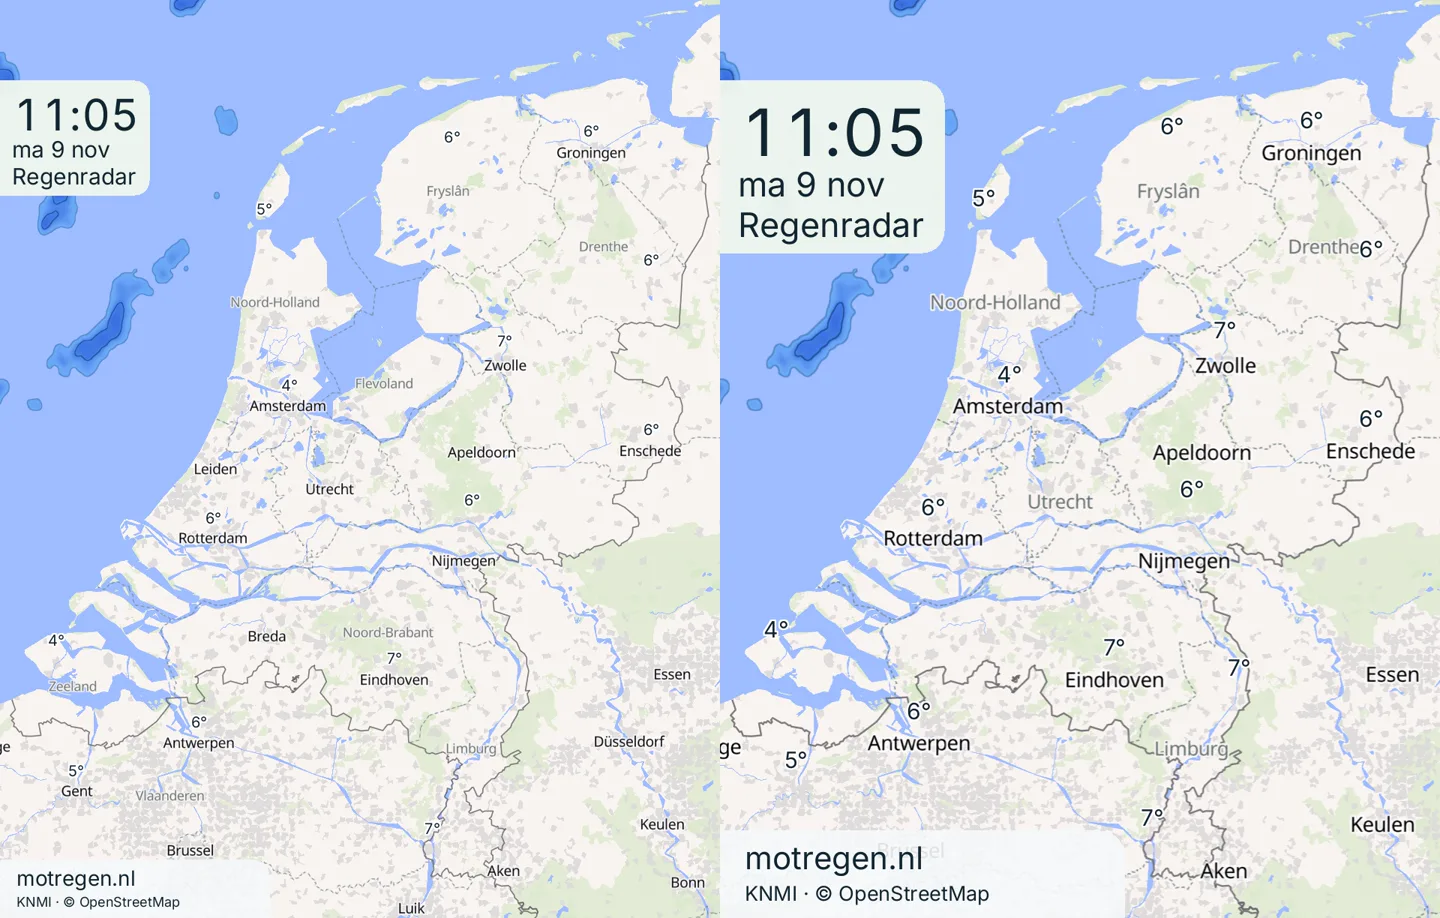
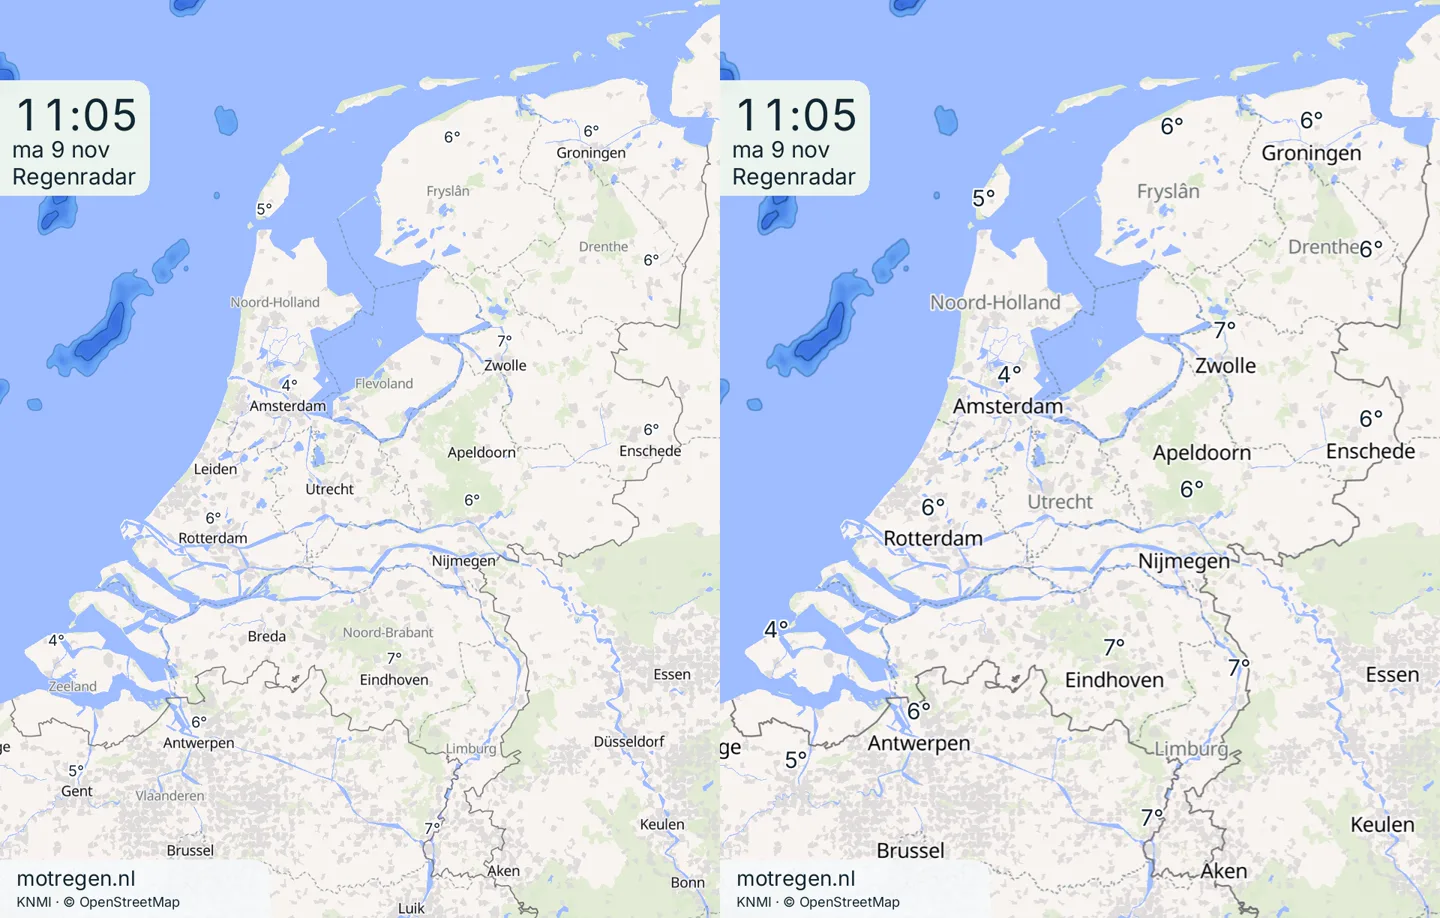
bot: klokpaneel en voetregel terug naar hun oude maat; de kaart met alles erop blijft 1,5× (PO, U103)
Rust overlay, klok en cijfermasker weer op de vaste maten van schaal 1,5; element_px/element_text alleen voor
kaartlabels (temperatuur, isolijn, H/L). Pariteitsvenster 270–1100 (onder het botklokpaneel, boven de
voetregel van de app-referentie). Changelogbeeld opnieuw.

Changed region(s): [[0.5, 0.061, 0.6562, 0.2745], [0.5, 0.8845, 0.7812, 1.0]]

diff --git a/bot/air-parity.ts b/bot/air-parity.ts
@@ -18,8 +18,9 @@ const manifest = validateManifest(JSON.parse(await readFile(manifestPath, 'utf8'
 const origin = process.env.MOTREGEN_PARITY_ORIGIN ?? 'http://127.0.0.1:4392'
 const now = Date.parse(manifest.now)
 // Kaartgebied zonder klokpaneel (linksboven) en voettekst (linksonder): die tekst tekent Rust zelf (MIP-29).
-// Kaart zonder overlays: onder het klokpaneel (tot rij 338) en boven de voetregel (vanaf rij 1107), sinds U103.
-const mapRows = { first: 345, last: 1100 }
+// Kaart zonder overlays: onder het klokpaneel van de bot (tot rij 261) en boven de voetregel van de app-referentie
+// (vanaf rij 1111, op FRAME 1,5× groot), sinds U103.
+const mapRows = { first: 270, last: 1100 }
 // De Rust-stills zijn JPEG; het gemiddelde mag de eigen JPEG-vloer van het appbeeld met hooguit 0,5 overschrijden.
 const limits = { mapMeanAboveJpeg: 0.5, mapP99: 8 }
 const samples = [{ name: 'dag', minutes: 240 }, { name: 'nacht', minutes: 720 }]

diff --git a/bot/config.ts b/bot/config.ts
@@ -8,9 +8,10 @@ import type { TelegramApi } from './api.js'
  */
 export const FRAME_PIXELS = { width: 960, height: 1224 } as const
 /**
- * Labels, lijnen, klok en voetregel 1,5× groter dan bij de oude schaal 1,5, op hetzelfde bestand en dezelfde
- * kaartuitsnede (U103, C8a): Telegram toont de films vaak klein. Vaste pixelmaten zijn afgesteld bij
- * BASE_FRAME_SCALE en schalen met ELEMENT_SCALE mee.
+ * De kaart met alles erop (plaatsnamen, labels, lijnen, wind, merktekens) 1,5× groter dan bij de oude schaal 1,5,
+ * op hetzelfde bestand en dezelfde kaartuitsnede (U103, C8a): Telegram toont de films vaak klein. Vaste pixelmaten
+ * zijn afgesteld bij BASE_FRAME_SCALE en schalen met ELEMENT_SCALE mee; klokpaneel en voetregel van de
+ * Rust-renderer blijven op hun oude maat (PO 2026-11-09).
  */
 export const BASE_FRAME_SCALE = 1.5
 export const ELEMENT_SCALE = 1.5

diff --git a/bot/parity.ts b/bot/parity.ts
@@ -33,8 +33,9 @@ const origin = process.env.MOTREGEN_ORIGIN ?? 'https://motregen.nl'
 const referenceOrigin = process.env.MOTREGEN_PARITY_ORIGIN ?? origin
 const now = Date.parse(manifest.now)
 const limits = { mean: 0.5, maximum: 20, mapMean: 0.35, mapMaximum: 8 }
-// Kaart zonder overlays: onder het klokpaneel (tot rij 338) en boven de voetregel (vanaf rij 1107), sinds U103.
-const mapRows = { first: 345, last: 1100 }
+// Kaart zonder overlays: onder het klokpaneel van de bot (tot rij 261) en boven de voetregel van de app-referentie
+// (vanaf rij 1111, op FRAME 1,5× groot), sinds U103.
+const mapRows = { first: 270, last: 1100 }
 const windLimits = { components: 0.1, meanLength: 0.1, meanWidth: 0.1, ink: 0.2 }
 const windPhases = [1000, 3000, 5000, 7000, 9000]
 function averageWind(samples: WindMetrics[]): WindMetrics {

diff --git a/crates/render-core/src/overlay.rs b/crates/render-core/src/overlay.rs
@@ -1,7 +1,6 @@
 use crate::{
     clock::{ClockTransition, draw_clock},
     constants::constants,
-    mode_constants::{element_px, element_text},
     text::Text,
     time::{clock_date, clock_text, loop_clock_epoch},
 };
@@ -11,21 +10,15 @@ pub struct ClockOptions {
     pub still: bool,
 }
 
-// MIP-32: 64 pixels op de 576-brede Telegram-screenshot, omgerekend naar 960 uitvoerpixels. Vrije ruimte boven de
-// klok, dus de positie schaalt niet mee met de elementen (U103).
+// MIP-32: 64 pixels op de 576-brede Telegram-screenshot, omgerekend naar 960 uitvoerpixels.
 pub const CLOCK_PANEL_TOP: i32 = 107;
-
-/// A fixed size tuned at scale 1.5 in whole output pixels at the current element scale.
-fn px(pixels: f64) -> i32 {
-    element_px(pixels).round() as i32
-}
 
 pub fn clock_panel_bounds(text: &mut Text, title: &str) -> [f64; 4] {
     let width = title
         .lines()
-        .map(|line| (f64::from(text.width(line, element_text(30))) + element_px(32.0)).ceil())
-        .fold(element_px(200.0), f64::max);
-    let height = px(154.0 + 36.0 * title.lines().count().saturating_sub(1) as f64);
+        .map(|line| f64::from((text.width(line, 30) + 32.0).ceil()))
+        .fold(200.0, f64::max);
+    let height = 154 + 36 * title.lines().count().saturating_sub(1) as i32;
     [
         0.0,
         f64::from(CLOCK_PANEL_TOP),
@@ -84,11 +77,11 @@ pub fn draw_overlay_title(
     let bounds = clock_panel_bounds(text, title);
     rounded_panel(
         rgb,
-        -px(20.0),
+        -20,
         CLOCK_PANEL_TOP,
-        bounds[2] as i32 + px(20.0),
+        bounds[2] as i32 + 20,
         bounds[3] as i32 - CLOCK_PANEL_TOP,
-        px(20.0),
+        20,
         background,
         0.96,
     );
@@ -99,7 +92,7 @@ pub fn draw_overlay_title(
     };
     let (clock, _) = clock_text(clock_epoch);
     let date = clock_date(clock_epoch);
-    let content_left = element_px(16.0) as f32;
+    let content_left = 16.0;
     if let Some(transition) = options.transition {
         draw_clock(
             text,
@@ -114,8 +107,8 @@ pub fn draw_overlay_title(
         text.draw(
             rgb,
             &clock,
-            (content_left, CLOCK_PANEL_TOP + px(67.0)),
-            element_text(58),
+            (content_left, CLOCK_PANEL_TOP + 67),
+            58,
             clock_color,
             None,
         );
@@ -123,8 +116,8 @@ pub fn draw_overlay_title(
     text.draw(
         rgb,
         &date,
-        (content_left, CLOCK_PANEL_TOP + px(103.0)),
-        element_text(30),
+        (content_left, CLOCK_PANEL_TOP + 103),
+        30,
         clock_color,
         None,
     );
@@ -132,11 +125,8 @@ pub fn draw_overlay_title(
         text.draw(
             rgb,
             title,
-            (
-                content_left,
-                CLOCK_PANEL_TOP + px(139.0 + line as f64 * 36.0),
-            ),
-            element_text(30),
+            (content_left, CLOCK_PANEL_TOP + 139 + line as i32 * 36),
+            30,
             clock_color,
             None,
         );
@@ -145,28 +135,27 @@ pub fn draw_overlay_title(
     let footer_background = if night { [7, 19, 25] } else { [245, 249, 250] };
     rounded_panel(
         rgb,
-        -px(20.0),
-        size.height as i32 - px(78.0),
-        px(380.0),
-        px(100.0),
-        px(22.0),
+        -20,
+        size.height as i32 - 78,
+        380,
+        100,
+        22,
         footer_background,
         0.9,
     );
-    let footer_left = element_px(22.0) as f32;
     text.draw(
         rgb,
         "motregen.nl",
-        (footer_left, size.height as i32 - px(43.0)),
-        element_text(28),
+        (22.0, size.height as i32 - 43),
+        28,
         footer_color,
         None,
     );
     text.draw(
         rgb,
         "KNMI · © OpenStreetMap",
-        (footer_left, size.height as i32 - px(15.0)),
-        element_text(18),
+        (22.0, size.height as i32 - 15),
+        18,
         footer_color,
         None,
     );

diff --git a/crates/render-core/src/clock.rs b/crates/render-core/src/clock.rs
@@ -1,9 +1,4 @@
-use crate::{
-    constants::constants,
-    mode_constants::{element_px, element_text},
-    text::Text,
-    time::clock_text,
-};
+use crate::{constants::constants, text::Text, time::clock_text};
 use serde::Serialize;
 use std::str::FromStr;
 
@@ -71,13 +66,13 @@ pub fn shown_state(epoch: i64, still: bool) -> ClockState {
 
 fn digit_width(text: &mut Text) -> usize {
     ('0'..='9')
-        .map(|digit| text.width(&digit.to_string(), element_text(58)).ceil() as usize)
+        .map(|digit| text.width(&digit.to_string(), 58).ceil() as usize)
         .max()
         .unwrap()
 }
 
 pub fn clock_width(text: &mut Text) -> f32 {
-    digit_width(text) as f32 * 4.0 + text.width(":", element_text(58))
+    digit_width(text) as f32 * 4.0 + text.width(":", 58)
 }
 
 pub fn draw_clock(
@@ -92,21 +87,13 @@ pub fn draw_clock(
     let (left, top) = position;
     let state = shown_state(epoch, still);
     let width = digit_width(text);
-    let height = element_px(56.0).round() as usize;
+    let height = 56;
     let progress = transition.animation_progress(state.progress);
     let mut position = left;
     for (from, to) in state.from.chars().zip(state.to.chars()) {
         if from == ':' {
-            let size = element_text(58);
-            text.draw(
-                rgb,
-                ":",
-                (position, top + element_px(67.0).round() as i32),
-                size,
-                color,
-                None,
-            );
-            position += text.width(":", size);
+            text.draw(rgb, ":", (position, top + 67), 58, color, None);
+            position += text.width(":", 58);
             continue;
         }
         let old = text.digit_mask(from, width, height);
@@ -123,7 +110,7 @@ pub fn draw_clock(
                 width,
                 height,
                 left: position.round() as i32,
-                top: top + element_px(15.0).round() as i32,
+                top: top + 15,
                 color,
                 progress,
                 transition,

diff --git a/crates/render-core/tests/clock.rs b/crates/render-core/tests/clock.rs
@@ -1,7 +1,6 @@
 use render_core::{
     clock::{ClockTransition, clock_state, clock_width, draw_clock},
     constants::constants,
-    mode_constants::{element_px, element_text},
     text::Text,
     time::epoch,
 };
@@ -111,11 +110,8 @@ fn digit_animation_keeps_unchanged_columns_and_clips_vertically() {
     let start = epoch("2026-10-11T04:55:00Z").unwrap();
     let original = render(start, ClockTransition::Schuif, false);
     let mut text = Text::new().unwrap();
-    let digit_width =
-        ((clock_width(&mut text) - text.width(":", element_text(58))) / 4.0).round() as usize;
-    let colon_width = text.width(":", element_text(58));
-    let digit_top = element_px(15.0).round() as usize;
-    let digit_rows = digit_top..digit_top + element_px(56.0).round() as usize;
+    let digit_width = ((clock_width(&mut text) - text.width(":", 58)) / 4.0).round() as usize;
+    let colon_width = text.width(":", 58);
     let changed_ranges = [
         (100 + digit_width, 100 + digit_width * 2),
         (
@@ -139,7 +135,7 @@ fn digit_animation_keeps_unchanged_columns_and_clips_vertically() {
             {
                 let x = index % constants().size.width;
                 let y = index / constants().size.width;
-                if !digit_rows.contains(&y)
+                if !(15..71).contains(&y)
                     || !changed_ranges
                         .iter()
                         .any(|&(left, right)| (left..right).contains(&x))

diff --git a/crates/render-core/src/text.rs b/crates/render-core/src/text.rs
@@ -1,7 +1,4 @@
-use crate::{
-    constants::constants,
-    mode_constants::{element_px, element_text},
-};
+use crate::constants::constants;
 use fontdue::{Font, Metrics};
 use std::{collections::HashMap, sync::Arc};
 
@@ -30,11 +27,10 @@ impl Text {
     }
 
     pub(crate) fn digit_mask(&mut self, character: char, width: usize, height: usize) -> Vec<u8> {
-        let glyph = self.glyph(character, element_text(58));
+        let glyph = self.glyph(character, 58);
         let left = ((width as f32 - glyph.metrics.advance_width) / 2.0).round() as i32
             + glyph.metrics.xmin;
-        let top =
-            element_px(52.0).round() as i32 - glyph.metrics.ymin - glyph.metrics.height as i32;
+        let top = 52 - glyph.metrics.ymin - glyph.metrics.height as i32;
         let mut mask = vec![0; width * height];
         for row in 0..glyph.metrics.height {
             for column in 0..glyph.metrics.width {

diff --git a/crates/render-core/tests/label_overlay.rs b/crates/render-core/tests/label_overlay.rs
@@ -1,6 +1,6 @@
 use render_core::{
     constants::constants,
-    mode_constants::{element_px, element_text},
+    mode_constants::element_text,
     overlay::clock_panel_bounds,
     rotated_text::{RotatedText, TextStyle},
     text::Text,
@@ -13,7 +13,7 @@ fn rotated_labels_and_halos_do_not_intersect_the_clock_panel() {
     let bounds = clock_panel_bounds(&mut text, "Gevoels-\ntemperatuur");
     assert_eq!(
         clock_panel_bounds(&mut text, "Regenradar"),
-        [0.0, 107.0, element_px(200.0), 107.0 + element_px(154.0)]
+        [0.0, 107.0, 200.0, 261.0]
     );
     let original = vec![25; size.width * size.height * 3];
     let mut labels = RotatedText::new().unwrap();

diff --git a/crates/render-core/tests/loop_clock.rs b/crates/render-core/tests/loop_clock.rs
@@ -128,8 +128,7 @@ fn clock_leaves_the_badge_band_clear_and_rounds_both_right_corners() {
                     assert_ne!(pixel(0, bottom), [25; 3]);
                     assert_eq!(pixel(right, top), [25; 3]);
                     assert_eq!(pixel(right, bottom), [25; 3]);
-                    let radius = render_core::mode_constants::element_px(20.0).round() as usize;
-                    assert_ne!(pixel(right, top + radius), [25; 3]);
+                    assert_ne!(pixel(right, top + 20), [25; 3]);
                 }
             }
         }

diff --git a/crates/render-core/src/mode_constants.rs b/crates/render-core/src/mode_constants.rs
@@ -5,7 +5,8 @@ use std::sync::OnceLock;
 pub struct ModeConstants {
     pub loops: LoopPlans,
     pub scale: f64,
-    /// Factor on the fixed pixel sizes of clock, footer and labels, tuned at scale 1.5 (U103).
+    /// Factor on the fixed pixel sizes of map labels and marks, tuned at scale 1.5 (U103). The clock panel and footer
+    /// stay at their scale-1.5 size (PO 2026-11-09).
     pub element_scale: f64,
     pub wind: Wind,
     pub isoline: Isoline,

diff --git a/docs/render.md b/docs/render.md
@@ -48,12 +48,13 @@ De kaartplaten bevatten de plaatsnamen. Temperatuurwaarden, klok en voettekst zi
 Het native botkader past Nederland (inclusief Zeeland, Limburg en de Wadden), zonder Vlaanderen als
 fitdoel. De bovenstrook van 48 pixels is verwijderd met behoud van zoom en bodemlijn. Het klokpaneel
 sluit linksboven aan op de beeldrand; alleen rechtsonder is rond. Tijd, Amsterdamse datum (zoals `zo 11 okt`)
-en de eigen modustitel staan op drie regels, 24 pixels van links. Datum en titel zijn 45 pixels en hebben
-hetzelfde contrast als de klok. De regenhoek is 300×231 pixels; alleen een langere modustitel verbreedt
-het paneel zodat tekst erbinnen blijft. Sinds U103 (PO C8a) zijn labels, lijnen, klok en voetregel 1,5× zo groot
-als bij de oude schaal 1,5: `FRAME` is 426,67×544 CSS-pixels bij schaal 2,25 op hetzelfde bestand van 960×1224 en
-dezelfde uitsnede. Vaste pixelmaten in Rust zijn afgesteld bij schaal 1,5 en lopen via `element_px`/`element_text`
-(`ELEMENT_SCALE` in `bot/config.ts`); vlakresolutie, isolijntolerantie en kaartmarge blijven gelijk in uitvoerpixels. Isolijnlabels en drukletters worden alleen buiten het paneel
+en de eigen modustitel staan op drie regels, 16 pixels van links. Datum en titel zijn 30 pixels en hebben
+hetzelfde contrast als de klok. De regenhoek is 200×154 pixels; alleen een langere modustitel verbreedt
+het paneel zodat tekst erbinnen blijft. Sinds U103 (PO C8a) is de kaart met alles erop 1,5× zo groot als bij de
+oude schaal 1,5 (plaatsnamen, temperatuur- en isolijnlabels, H/L, lijnen, wind); klokpaneel en voetregel niet.
+`FRAME` is 426,67×544 CSS-pixels bij schaal 2,25 op hetzelfde bestand van 960×1224 en dezelfde uitsnede. Vaste
+pixelmaten van kaartlabels lopen in Rust via `element_px`/`element_text` (`ELEMENT_SCALE` in `bot/config.ts`);
+vlakresolutie, isolijntolerantie en kaartmarge blijven gelijk in uitvoerpixels. Isolijnlabels en drukletters worden alleen buiten het paneel
 getekend; de volledige gedraaide tekst inclusief halo moet vrij blijven. Na een wijziging van `NATIVE_VIEW` moeten beide basiskaarten
 opnieuw worden vastgelegd; een oude plaat bijsnijden geeft geen passende projectie of labelplaatsing.
 Het watermasker dempt de windstaarten op zee; de regencompositie gebruikt het niet. Deze export start geen browser.

diff --git a/changes/pending/telegram-groter.md b/changes/pending/telegram-groter.md
@@ -6,4 +6,4 @@ media:
   - file: changes/media/telegram-groter-voor-na.webp
     caption: voor en na
 ---
-Klok, plaatsnamen, temperaturen en lijnen in de botkaarten zijn anderhalf keer zo groot, ook als Telegram ze klein toont.
+Plaatsnamen, temperaturen, lijnen en wind in de botkaarten zijn anderhalf keer zo groot, ook als Telegram ze klein toont.
